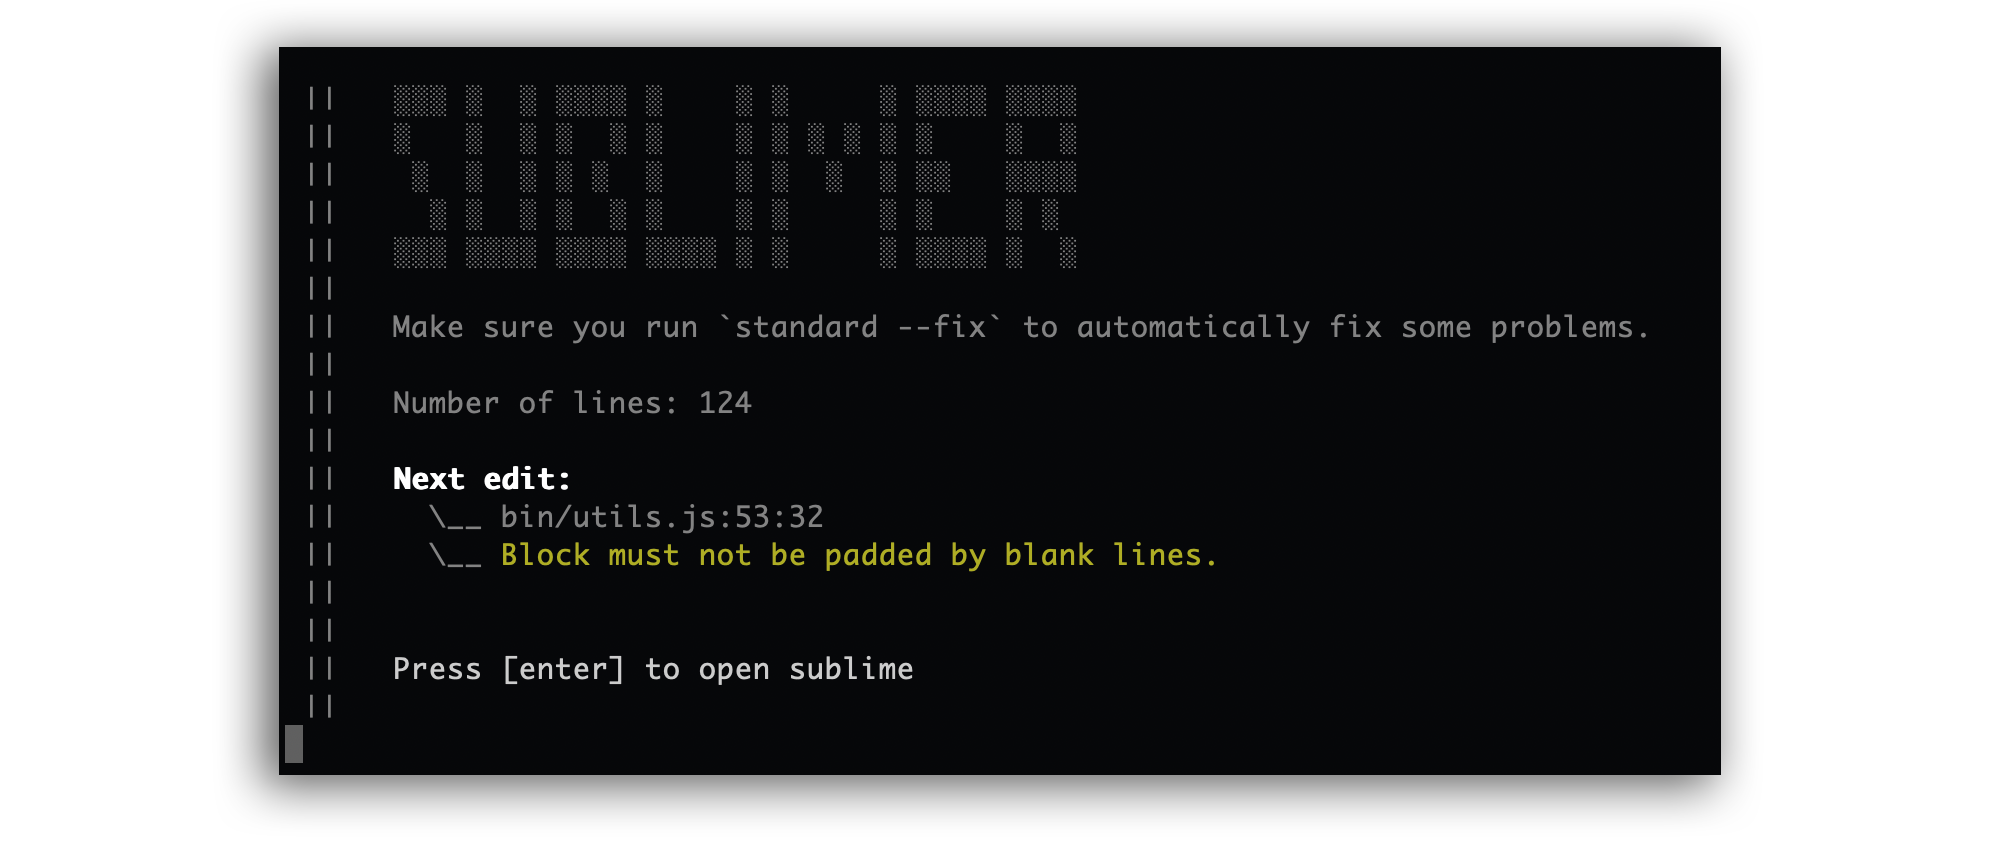
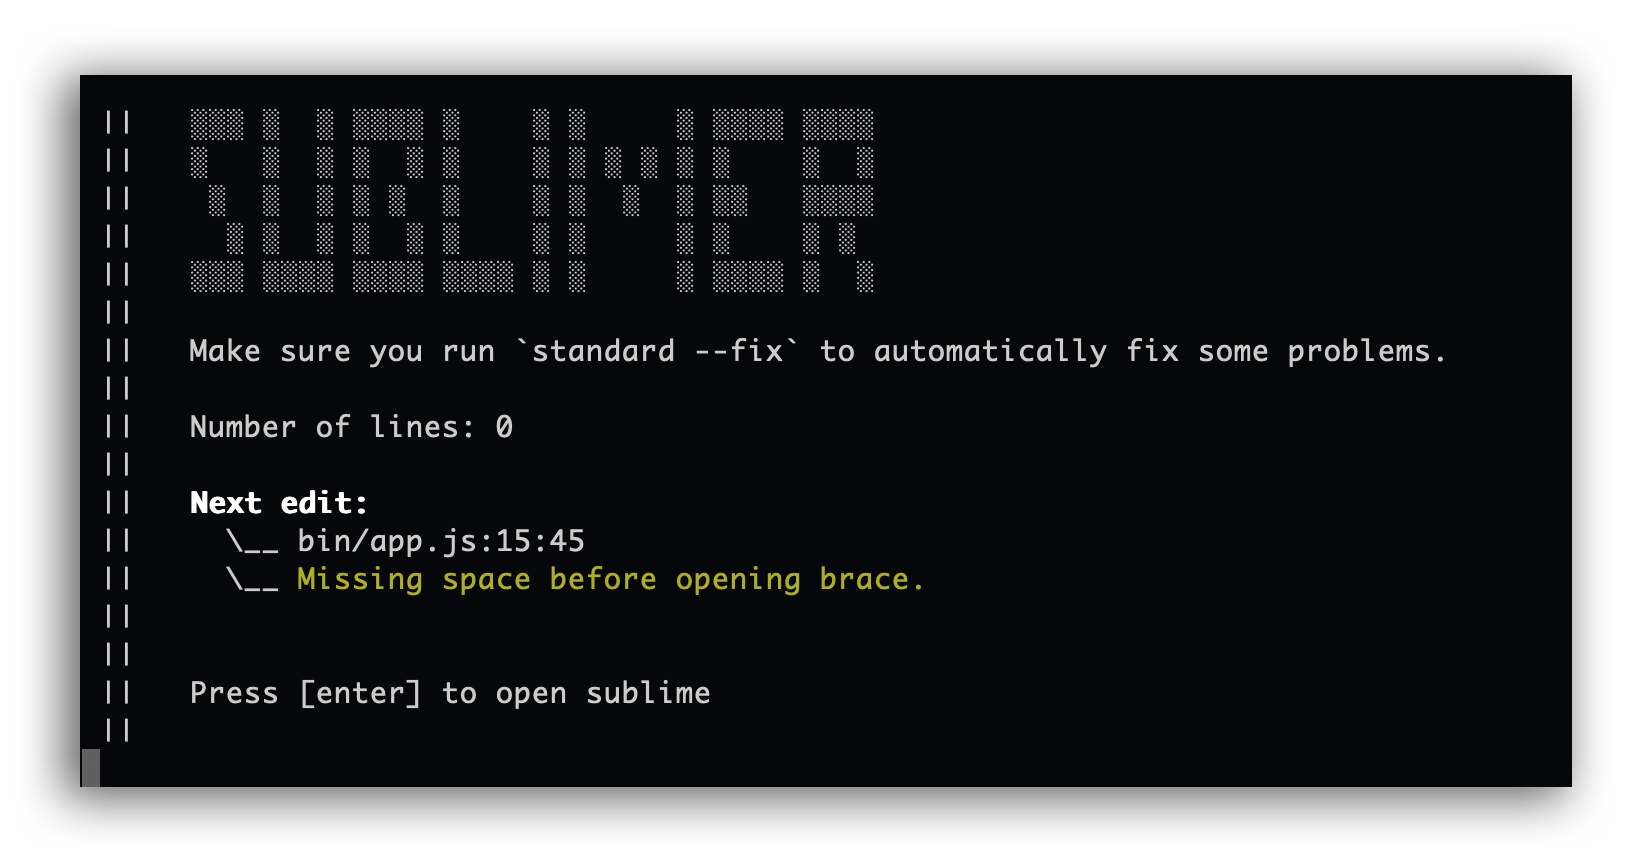
changed color to support windows

Changed region(s): [[0.0, 0.0304, 0.9927, 0.9731]]

diff --git a/bin/utils.js b/bin/utils.js
@@ -6,15 +6,15 @@ var utils = exports = module.exports = {}
 
 utils.showBanner = function (numberOfLines) {
   console.log()
-  console.log(colors.gray(' ||'), colors.gray.italic(' ', '░░░ ░  ░ ░░░░ ░    ░ ░     ░ ░░░░ ░░░░'))
-  console.log(colors.gray(' ||'), colors.gray.italic(' ', '░   ░  ░ ░  ░ ░    ░ ░ ░ ░ ░ ░    ░  ░'))
-  console.log(colors.gray(' ||'), colors.gray.italic(' ', ' ░  ░  ░ ░ ░  ░    ░ ░  ░  ░ ░░   ░░░░'))
-  console.log(colors.gray(' ||'), colors.gray.italic(' ', '  ░ ░  ░ ░  ░ ░    ░ ░     ░ ░    ░ ░'))
-  console.log(colors.gray(' ||'), colors.gray.italic(' ', '░░░ ░░░░ ░░░░ ░░░░ ░ ░     ░ ░░░░ ░  ░'))
-  console.log(colors.gray(' ||'))
-  console.log(colors.gray(' ||'), ' ', colors.gray('Make sure you run `standard --fix` to automatically fix some problems.'))
-  console.log(colors.gray(' ||'))
-  console.log(colors.gray(' ||'), ' ', colors.gray('Number of lines: ' + numberOfLines))
+  console.log(colors.white(' ||'), colors.white.italic(' ', '░░░ ░  ░ ░░░░ ░    ░ ░     ░ ░░░░ ░░░░'))
+  console.log(colors.white(' ||'), colors.white.italic(' ', '░   ░  ░ ░  ░ ░    ░ ░ ░ ░ ░ ░    ░  ░'))
+  console.log(colors.white(' ||'), colors.white.italic(' ', ' ░  ░  ░ ░ ░  ░    ░ ░  ░  ░ ░░   ░░░░'))
+  console.log(colors.white(' ||'), colors.white.italic(' ', '  ░ ░  ░ ░  ░ ░    ░ ░     ░ ░    ░ ░'))
+  console.log(colors.white(' ||'), colors.white.italic(' ', '░░░ ░░░░ ░░░░ ░░░░ ░ ░     ░ ░░░░ ░  ░'))
+  console.log(colors.white(' ||'))
+  console.log(colors.white(' ||'), ' ', colors.white('Make sure you run `standard --fix` to automatically fix some problems.'))
+  console.log(colors.white(' ||'))
+  console.log(colors.white(' ||'), ' ', colors.white('Number of lines: ' + numberOfLines))
 }
 
 // Show next edit
@@ -26,35 +26,35 @@ utils.showNextEdit = function (allData) {
 
   // If not empty then show next edit
 
-  console.log(colors.gray(' ||'))
-  console.log(colors.gray(' ||'), ' ', colors.bold('Next edit:'))
-  console.log(colors.gray(' ||'), ' ', colors.gray('  \\__'), colors.gray(allData.path))
-  console.log(colors.gray(' ||'), ' ', colors.gray('  \\__'), colors.yellow(allData.desc))
-  console.log(colors.gray(' ||'))
-  console.log(colors.gray(' ||'))
-  console.log(colors.gray(' ||'), ' ', colors.white('Press [enter] to open sublime'))
-  console.log(colors.gray(' ||'))
+  console.log(colors.white(' ||'))
+  console.log(colors.white(' ||'), ' ', colors.bold('Next edit:'))
+  console.log(colors.white(' ||'), ' ', colors.white('  \\__'), colors.white(allData.path))
+  console.log(colors.white(' ||'), ' ', colors.white('  \\__'), colors.yellow(allData.desc))
+  console.log(colors.white(' ||'))
+  console.log(colors.white(' ||'))
+  console.log(colors.white(' ||'), ' ', colors.white('Press [enter] to open sublime'))
+  console.log(colors.white(' ||'))
 }
 
 // show end
 
 utils.showEnd = function (numberLeft) {
-  console.log(colors.gray(' ||'))
-  console.log(colors.gray(' ||'))
+  console.log(colors.white(' ||'))
+  console.log(colors.white(' ||'))
 
   // If the number of tasks still higher than zero
 
   if (numberLeft > 0) {
     // Recommend to run the tool again
-    console.log(colors.gray(' ||'), ' ', colors.gray('You have reached the end!'))
-    console.log(colors.gray(' ||'), ' ', colors.red('You still have ' + numberLeft + ' left, run `sublimer` again to clean up'))
+    console.log(colors.white(' ||'), ' ', colors.white('You have reached the end!'))
+    console.log(colors.white(' ||'), ' ', colors.red('Run `sublimer` again to clean up'))
   } else {
     // You are done!
 
-    console.log(colors.gray(' ||'), ' ', colors.gray('You have reached the end, no more issues'), colors.green.bold('congrats!'))
+    console.log(colors.white(' ||'), ' ', colors.green.bold('you are done!'))
   }
-  console.log(colors.gray(' ||'))
-  console.log(colors.gray(' ||'))
+  console.log(colors.white(' ||'))
+  console.log(colors.white(' ||'))
 }
 
 // click to show next
@@ -78,17 +78,17 @@ utils.isValid = function (data) {
 // Show warning
 
 utils.showWarning = function (text) {
-  console.log(colors.gray(' ||'))
-  console.log(colors.gray(' ||'), ' ', colors.yellow(text))
-  console.log(colors.gray(' ||'))
+  console.log(colors.white(' ||'))
+  console.log(colors.white(' ||'), ' ', colors.yellow(text))
+  console.log(colors.white(' ||'))
 }
 
 // Show error
 
 utils.showError = function (err) {
-  console.log(colors.gray(' ||'))
-  console.log(colors.gray(' ||'), ' ', colors.red(err))
-  console.log(colors.gray(' ||'))
+  console.log(colors.white(' ||'))
+  console.log(colors.white(' ||'), ' ', colors.red(err))
+  console.log(colors.white(' ||'))
 }
 
 // Show help

diff --git a/README.md b/README.md
@@ -1,7 +1,7 @@
 # sublimer [![Build Status](https://api.travis-ci.org/csanz/sublimer.svg?branch=master)](https://travis-ci.org/csanz/sublimer)
 simple CLI tool for faster editing lint rules using sublime and standard
 
-![Screenshot](https://raw.githubusercontent.com/csanz/sublimer/master/misc/sublimer.png)
+![Screenshot](https://raw.githubusercontent.com/csanz/sublimer/master/misc/sublimer.png?bust=1)
 
 ## installation
 

diff --git a/TODO.md b/TODO.md
@@ -10,3 +10,5 @@
 Standard output: fileName.js:NUMBER:ROW (this works inside sublime)
 
 Expected input to work inside other editors (e.g. VIM): fileName.js +NUMBER
+
+* Pass in something like this `grep -rnw './bin' -e 'toolSlug'` and start to edit. 
